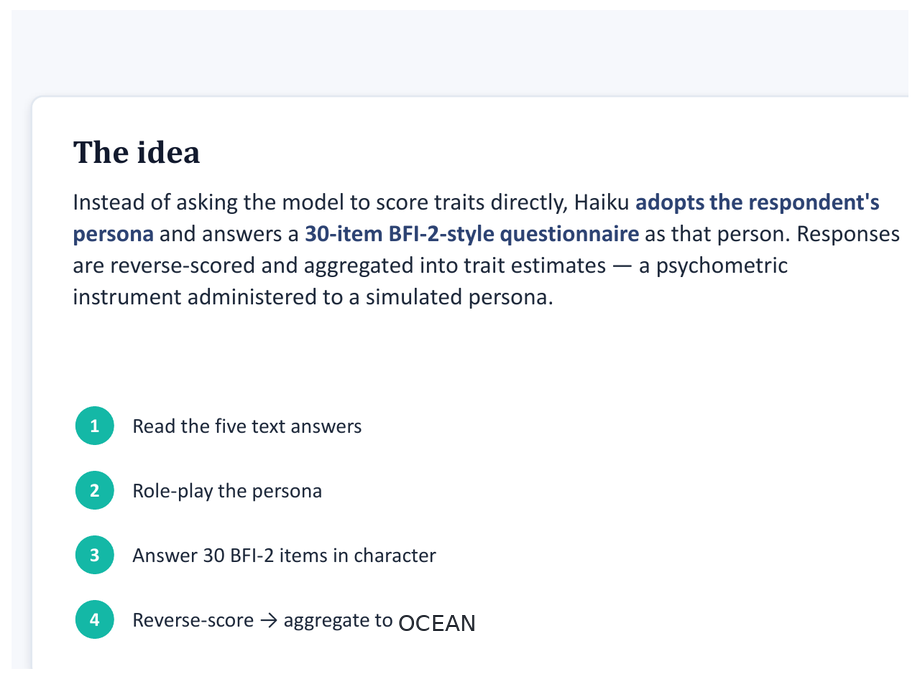
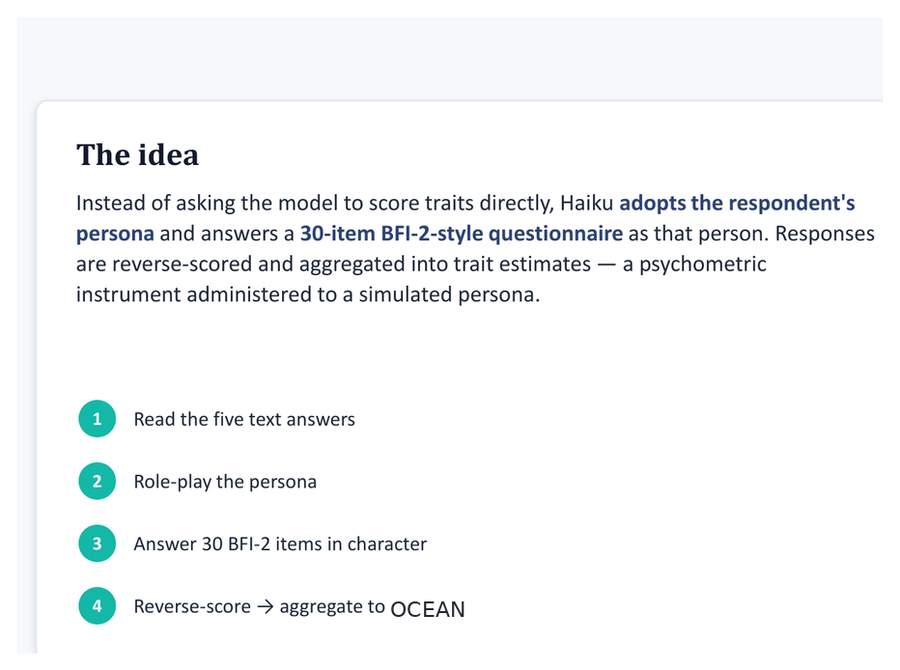
Tighten carousel spacing and stack stats under values
Stack each feature-stat note under its large value in smaller type
(especially the 0.3215 comparison on card 1), trim figure assets, and
reduce card/figure padding so live slides no longer show large gaps.

diff --git a/assets/main.scss b/assets/main.scss
@@ -346,7 +346,7 @@ img { max-width: 100%; height: auto; }
 .feature-card {
   border: 1px solid var(--rule);
   background: var(--paper-warm);
-  padding: 22px 24px 18px;
+  padding: 18px 20px 14px;
 }
 
 .feature-slide {
@@ -381,19 +381,20 @@ img { max-width: 100%; height: auto; }
 .feature-card .feature-sub {
   font-size: 0.92rem;
   color: var(--faint);
-  margin: 0 0 14px;
+  margin: 0 0 10px;
 }
 
 .feature-card .feature-desc {
-  font-size: 0.98rem;
-  margin: 0 0 14px;
+  font-size: 0.95rem;
+  margin: 0 0 10px;
+  line-height: 1.5;
 }
 
 .feature-figure {
-  margin: 0 0 12px;
+  margin: 0 0 10px;
   background: #fff;
   border: 1px solid var(--rule);
-  padding: 8px 8px 6px;
+  padding: 6px;
 }
 
 .feature-figure-link {
@@ -429,30 +430,33 @@ img { max-width: 100%; height: auto; }
 }
 
 .feature-figure--wide {
-  padding: 12px 8px 8px;
+  padding: 8px 6px 6px;
 }
 
 .feature-stat {
   display: flex;
-  align-items: baseline;
-  gap: 14px;
+  flex-direction: column;
+  align-items: flex-start;
+  gap: 2px;
   border-top: 1px solid var(--rule);
-  padding-top: 16px;
-  margin-top: 4px;
+  padding-top: 10px;
+  margin-top: 0;
 }
 
 .feature-stat .stat-value {
   font-family: var(--serif);
-  font-size: 1.7rem;
+  font-size: 1.55rem;
   font-weight: 600;
   color: var(--gold-dark);
   white-space: nowrap;
+  line-height: 1.15;
 }
 
 .feature-stat .stat-note {
-  font-size: 0.88rem;
+  font-size: 0.78rem;
   color: var(--muted);
-  line-height: 1.4;
+  line-height: 1.35;
+  max-width: 100%;
 }
 
 .feature-carousel-footer {

diff --git a/index.md b/index.md
@@ -54,7 +54,7 @@ permalink: /
           <p class="feature-sub">SIOP 2019 Machine Learning Competition &mdash; post-hoc winning solution</p>
           <figure class="feature-figure">
             <a class="feature-figure-link" href="{{ "/assets/images/siop2019-roleplay-steps.png" | relative_url }}" target="_blank" rel="noopener noreferrer" aria-label="Open full-size role-play questionnaire pipeline diagram">
-              <img src="{{ "/assets/images/siop2019-roleplay-steps.png" | relative_url }}" alt="Four-step role-play questionnaire pipeline: read five text answers, role-play the persona, answer 30 BFI-2 items in character, then reverse-score and aggregate to OCEAN trait scores." width="920" height="679" loading="lazy">
+              <img src="{{ "/assets/images/siop2019-roleplay-steps.png" | relative_url }}" alt="Four-step role-play questionnaire pipeline: read five text answers, role-play the persona, answer 30 BFI-2 items in character, then reverse-score and aggregate to OCEAN trait scores." width="900" height="670" loading="lazy">
             </a>
             <figcaption>Role-play pipeline: text &rarr; persona &rarr; BFI-2 items &rarr; OCEAN scores <span class="feature-figure-hint">· click to enlarge</span></figcaption>
           </figure>
@@ -70,7 +70,7 @@ permalink: /
           <p class="feature-sub">Latent personality profiles &amp; future-of-work skills (MIDUS)</p>
           <figure class="feature-figure">
             <a class="feature-figure-link" href="{{ "/assets/images/midus-figure-1a.png" | relative_url }}" target="_blank" rel="noopener noreferrer" aria-label="Open full-size Figure 1A from the MIDUS preprint">
-              <img src="{{ "/assets/images/midus-figure-1a.png" | relative_url }}" alt="Figure 1A from the MIDUS preprint: latent state means for four personality profiles across Neuroticism, Extraversion, Openness, Agreeableness, Conscientiousness, and Agency." width="880" height="420" loading="lazy">
+              <img src="{{ "/assets/images/midus-figure-1a.png" | relative_url }}" alt="Figure 1A from the MIDUS preprint: latent state means for four personality profiles across Neuroticism, Extraversion, Openness, Agreeableness, Conscientiousness, and Agency." width="880" height="464" loading="lazy">
             </a>
             <figcaption>Figure 1A &mdash; four replicated profiles (Resilient, Distressed, Reserved, Antagonistic) <span class="feature-figure-hint">· click to enlarge</span></figcaption>
           </figure>
@@ -86,7 +86,7 @@ permalink: /
           <p class="feature-sub">SIOP 2026 Machine Learning Competition &mdash; team One Hot Key</p>
           <figure class="feature-figure feature-figure--wide">
             <a class="feature-figure-link" href="{{ "/assets/images/siop2026-six-gates.png" | relative_url }}" target="_blank" rel="noopener noreferrer" aria-label="Open full-size six-gate pipeline diagram from the SIOP 2026 presentation">
-              <img src="{{ "/assets/images/siop2026-six-gates.png" | relative_url }}" alt="Six-gate cascading pipeline from the SIOP 2026 presentation: PDF Acquisition, Layout Extraction, Regex plus phi4 Classifier, Vision Fallback, Structured LLM Extraction, and Imputation." width="1100" height="280" loading="lazy">
+              <img src="{{ "/assets/images/siop2026-six-gates.png" | relative_url }}" alt="Six-gate cascading pipeline from the SIOP 2026 presentation: PDF Acquisition, Layout Extraction, Regex plus phi4 Classifier, Vision Fallback, Structured LLM Extraction, and Imputation." width="1100" height="251" loading="lazy">
             </a>
             <figcaption>Gates 1&ndash;6 &mdash; cascading fallback from cheap precision to recovery <span class="feature-figure-hint">· click to enlarge</span></figcaption>
           </figure>
